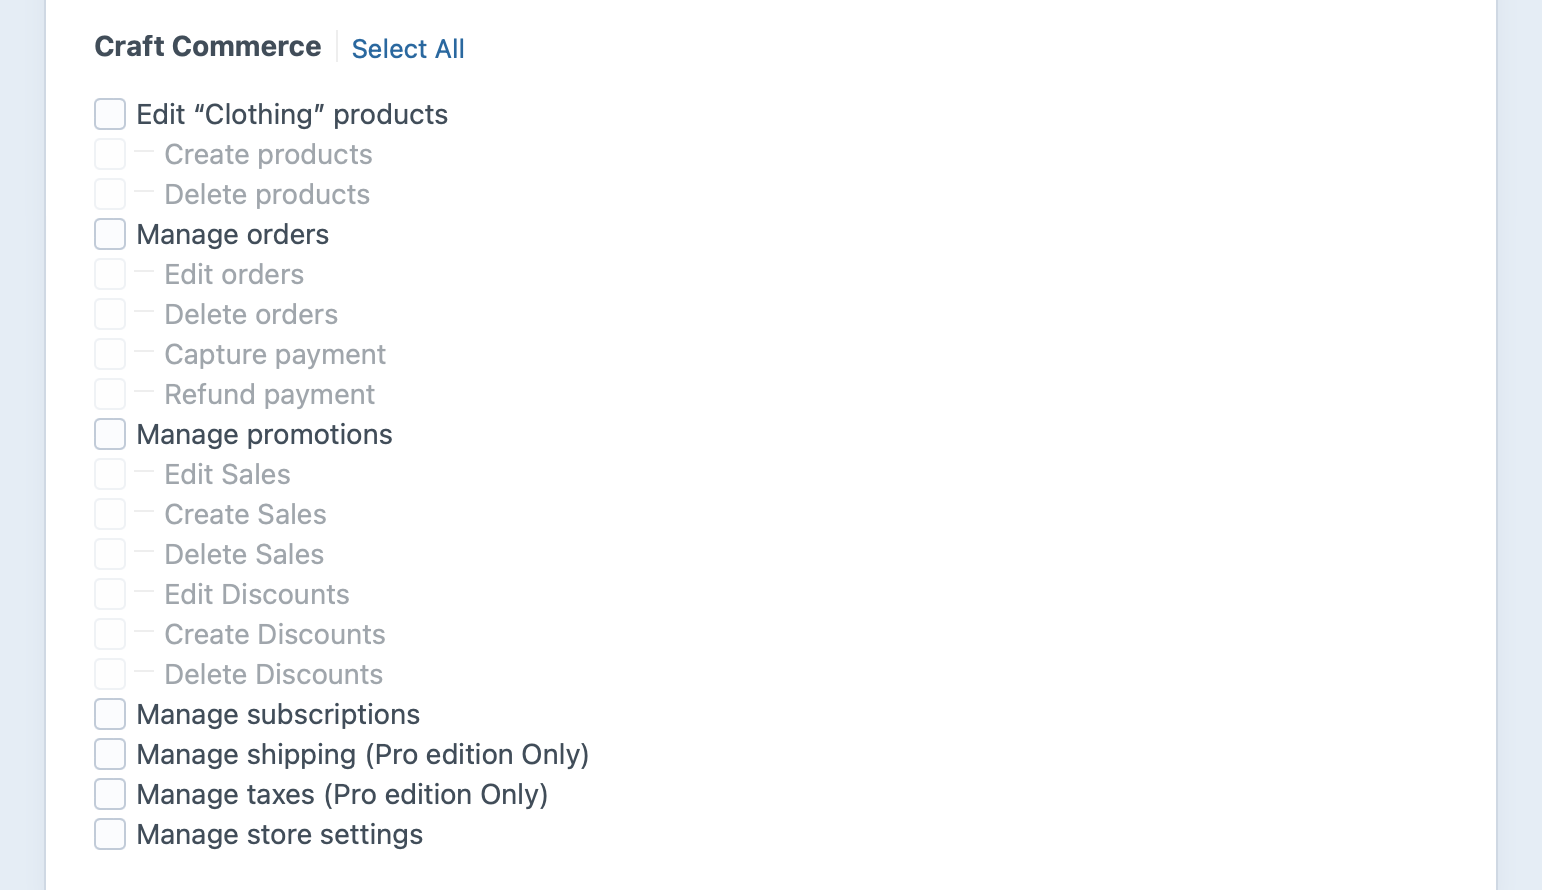
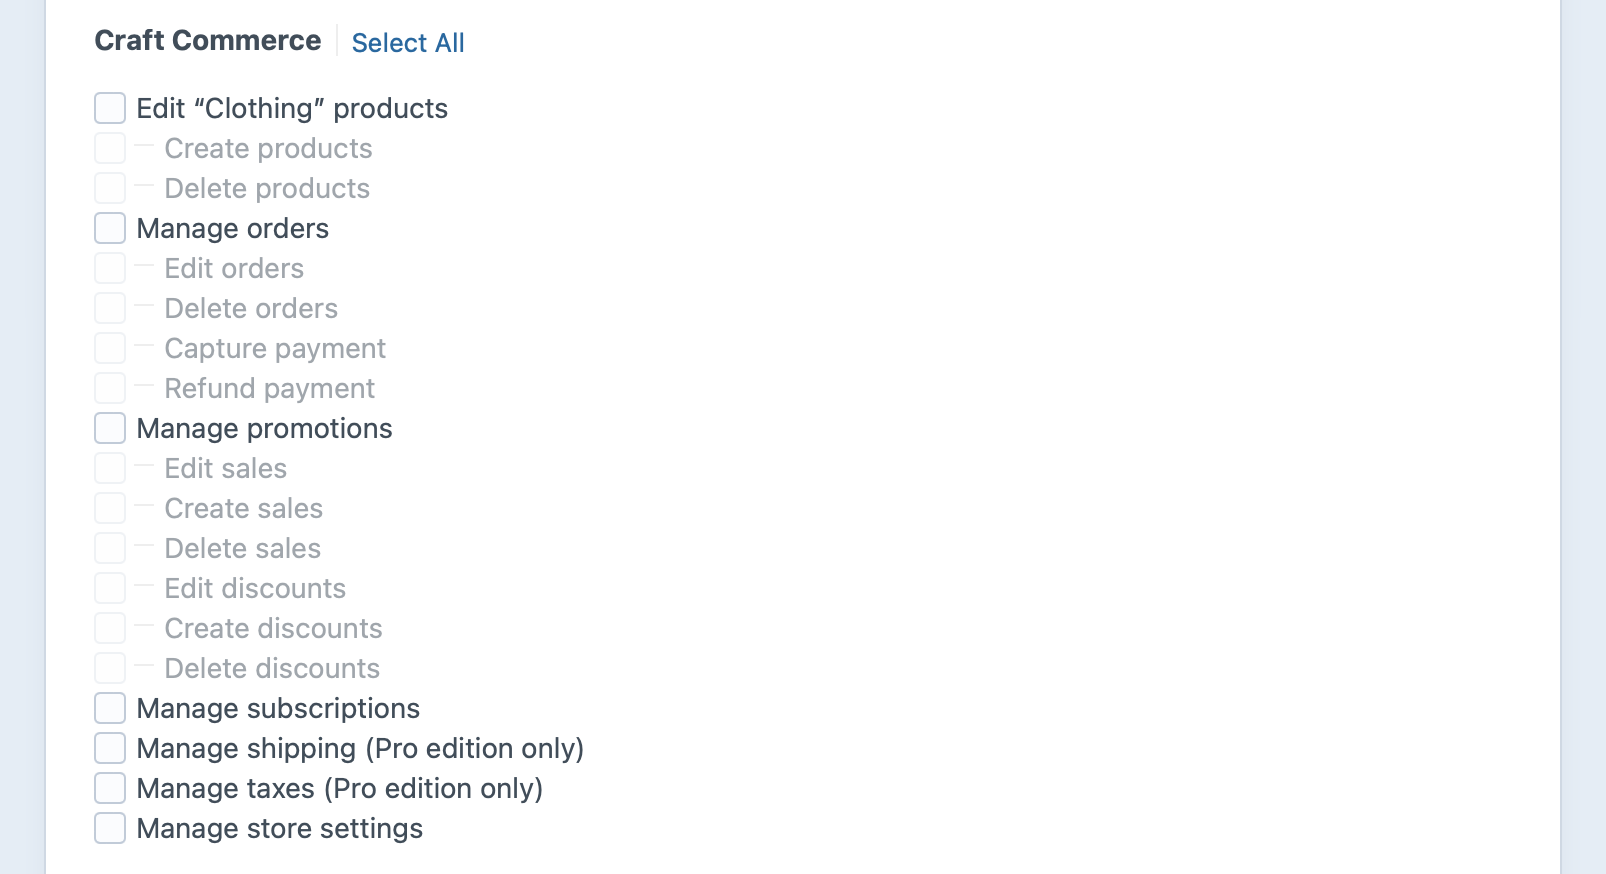
Fix case.

Changed region(s): [[0.0623, 0.0927, 0.3735, 0.9577], [0.0623, 0.0309, 0.3113, 0.0618]]

diff --git a/docs/commerce/4.x/store-management.md b/docs/commerce/4.x/store-management.md
@@ -56,27 +56,27 @@ Whether the user may click the “Refund” button on a successful payment.
 
 Whether the user can manage promotions.
 
-#### Edit Sales
+#### Edit sales
 
 Whether the user can edit existing sales.
 
-#### Create Sales
+#### Create sales
 
 Whether the user can create new sales.
 
-#### Delete Sales
+#### Delete sales
 
 Whether the user can delete sales.
 
-#### Edit Discounts
+#### Edit discounts
 
 Whether the user can edit existing discounts.
 
-#### Create Discounts
+#### Create discounts
 
 Whether the user can create new discounts.
 
-#### Delete Discounts
+#### Delete discounts
 
 Whether the user can delete discounts.
 
